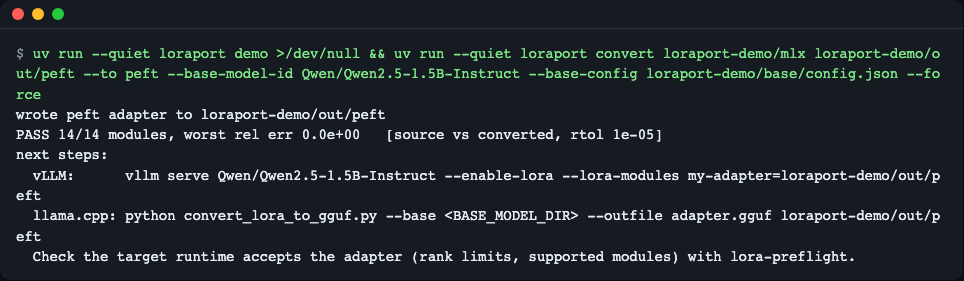
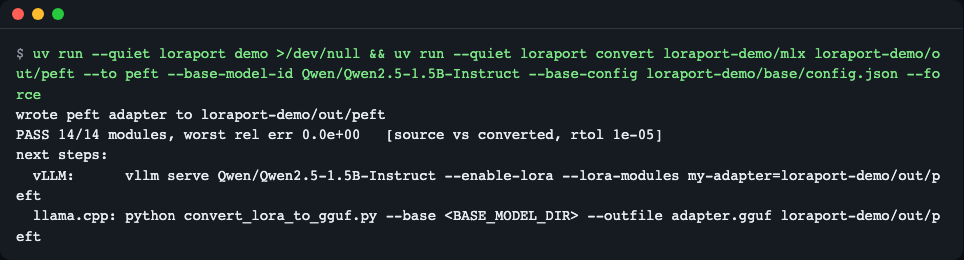
fix(convert): drop unpublished tool from peft next steps
The peft next-steps output pointed at a tool that is not published yet.
Remove that line, align both READMEs and the example image with the real
output, and update the regression test.

diff --git a/src/loraport/convert.py b/src/loraport/convert.py
@@ -65,7 +65,6 @@ def _next_steps(to: Target, dst: Path, base: str | None, num_layers_unknown: boo
         return [
             f"vLLM:      vllm serve {base_ref} --enable-lora --lora-modules my-adapter={dst}",
             f"llama.cpp: python convert_lora_to_gguf.py --base <BASE_MODEL_DIR> --outfile adapter.gguf {dst}",
-            "Check the target runtime accepts the adapter (rank limits, supported modules) with lora-preflight.",
         ]
     steps = [f'mlx-lm:    mlx_lm.generate --model {base_ref} --adapter-path {dst} --prompt "Hello"']
     if num_layers_unknown:

diff --git a/tests/test_cli.py b/tests/test_cli.py
@@ -63,7 +63,7 @@ def test_convert_autoverify_and_next_steps(mlx_dir: Path, tmp_path: Path, capsys
     out = capsys.readouterr().out
     assert "PASS 14/14 modules" in out
     assert "--lora-modules" in out and "vllm serve org/model --enable-lora" in out
-    assert "convert_lora_to_gguf.py" in out and "lora-preflight" in out
+    assert "convert_lora_to_gguf.py" in out and "lora-preflight" not in out
 
 
 def test_convert_failure_exit_code(mlx_dir: Path, tmp_path: Path, capsys: pytest.CaptureFixture[str]) -> None:

diff --git a/src/loraport/__init__.py b/src/loraport/__init__.py
@@ -2,7 +2,7 @@
 
 from __future__ import annotations
 
-__version__ = "0.1.2"
+__version__ = "0.1.3"
 
 from .convert import ConvertResult, convert  # noqa: E402
 from .delta import Report, compare  # noqa: E402

diff --git a/README.md b/README.md
@@ -25,7 +25,7 @@ git clone https://github.com/LeeGyeongPil/loraport && cd loraport
 uv run loraport --version
 ```
 ```text
-loraport 0.1.2
+loraport 0.1.3
 ```
 - 필요한 것: Python 3.11 이상(`.python-version` 은 3.12). 의존성은 `numpy`·`safetensors` 뿐이라 torch·mlx 없이 맥·리눅스 어디서나 돕니다.
 - 최소 리눅스 환경에서는 `git`, `curl` 정도만 더 있으면 됩니다.
@@ -89,7 +89,6 @@ PASS 14/14 modules, worst rel err 0.0e+00   [source vs converted, rtol 1e-05]
 next steps:
   vLLM:      vllm serve Qwen/Qwen2.5-1.5B-Instruct --enable-lora --lora-modules my-adapter=loraport-demo/out/peft
   llama.cpp: python convert_lora_to_gguf.py --base <BASE_MODEL_DIR> --outfile adapter.gguf loraport-demo/out/peft
-  Check the target runtime accepts the adapter (rank limits, supported modules) with lora-preflight.
 ```
 ![convert 화면](docs/images/03-convert.png)
 *변환이 끝나면 자동 검증 결과와 vLLM·llama.cpp 다음 명령이 나온다.*
@@ -97,7 +96,6 @@ next steps:
 - 변환 결과는 `adapter_model.safetensors`(메타데이터 `format=pt`)와 `adapter_config.json` 입니다. 설정에는 필요한 필드만 쓰고 학습 인자(데이터 경로 등)는 복사하지 않습니다.
 - 반대 방향은 `--to mlx`. `--base-config` 가 있으면 `num_layers` 를 `전체 층 수 − 가장 앞 층 번호` 로 계산하고, 없으면 `-1`(모든 블록)로 씁니다.
 - `--base-model-id` 를 주지 않으면 `base_model_name_or_path` 는 `null` 입니다.
-- 마지막 줄의 `lora-preflight` 는 별도 도구이며 아직 공개 전입니다.
 - `llama.cpp` 줄의 `<BASE_MODEL_DIR>` 는 직접 채우는 자리표시입니다. llama.cpp·vLLM 명령 자체는 이 도구가 실행하지 않고 안내만 합니다.
 
 ### 3) 두 어댑터 비교하기(CI)
@@ -198,10 +196,10 @@ flowchart LR
 
 ## 언제 쓰나
 - 이럴 때: mlx-lm 어댑터를 병합하지 않고 그대로 PEFT 계열 도구에 넘기고 싶을 때, 변환 결과가 원본과 같은지 숫자로 남기고 싶을 때.
-- 이럴 땐 다른 도구: 기본 모델에 병합한 전체 모델이 필요하면 [mlx-lm `fuse`](https://github.com/ml-explore/mlx-lm/blob/main/mlx_lm/LORA.md), PEFT 어댑터를 GGUF LoRA 로 바꾸려면 [llama.cpp `convert_lora_to_gguf.py`](https://github.com/ggml-org/llama.cpp), 이미 PEFT 형식인 어댑터를 vLLM·llama.cpp 가 받아 줄지 미리 따지려면 lora-preflight.
+- 이럴 땐 다른 도구: 기본 모델에 병합한 전체 모델이 필요하면 [mlx-lm `fuse`](https://github.com/ml-explore/mlx-lm/blob/main/mlx_lm/LORA.md), PEFT 어댑터를 GGUF LoRA 로 바꾸려면 [llama.cpp `convert_lora_to_gguf.py`](https://github.com/ggml-org/llama.cpp).
 
 ## 지원 안 하는 것과 한계
-- 0.1.2 에서 거부하는 형태: DoRA, MoE(3차원 텐서), embedding LoRA, `modules_to_save`, `rank_pattern`/`alpha_pattern`, bias 어댑터. GGUF 직접 쓰기, 기본 모델 병합, 허브 다운로드(로컬 폴더만)도 범위 밖입니다.
+- 0.1.3 에서 거부하는 형태: DoRA, MoE(3차원 텐서), embedding LoRA, `modules_to_save`, `rank_pattern`/`alpha_pattern`, bias 어댑터. GGUF 직접 쓰기, 기본 모델 병합, 허브 다운로드(로컬 폴더만)도 범위 밖입니다.
 - **ΔW 동일성만 증명합니다.** 양자화한 기본 모델에 붙이면 출력은 조금 달라질 수 있습니다(출력 동일성은 보장하지 않음).
 - **mlx-lm 쪽은 실제 로드를 확인하지 못했습니다.** 형식은 mlx-lm 0.32.2 설치본 소스와 허브의 실제 mlx-lm 어댑터 헤더로 확인했고, 개발 환경(Metal 장치 없음)에서 `mlx_lm` 의 `load_adapters` 를 직접 돌려 보지는 못했습니다. `--to mlx` 의 `num_layers=-1`·파일에 없는 층이 ΔW=0 으로 남는다는 동작도 소스를 읽은 근거입니다. 맥의 일반 터미널에서는 `uv run --with mlx-lm pytest -m mlx` 로 왕복 테스트를 돌려 볼 수 있는데, 이 명령은 아직 실행해 보지 않았습니다.
 - 어댑터 전체를 float32 로 메모리에 올립니다(스트리밍 아님). 수백 MB 급까지는 가능합니다.

diff --git a/README.en.md b/README.en.md
@@ -23,7 +23,7 @@ git clone https://github.com/LeeGyeongPil/loraport && cd loraport
 uv run loraport --version
 ```
 ```text
-loraport 0.1.2
+loraport 0.1.3
 ```
 - Requires Python 3.11+ (`.python-version` pins 3.12). The only dependencies are `numpy` and `safetensors`, so it runs on macOS and Linux without torch or mlx.
 - On a minimal Linux image you only need `git` and `curl` in addition.
@@ -87,7 +87,6 @@ PASS 14/14 modules, worst rel err 0.0e+00   [source vs converted, rtol 1e-05]
 next steps:
   vLLM:      vllm serve Qwen/Qwen2.5-1.5B-Instruct --enable-lora --lora-modules my-adapter=loraport-demo/out/peft
   llama.cpp: python convert_lora_to_gguf.py --base <BASE_MODEL_DIR> --outfile adapter.gguf loraport-demo/out/peft
-  Check the target runtime accepts the adapter (rank limits, supported modules) with lora-preflight.
 ```
 ![convert screen](docs/images/03-convert.png)
 *After converting, the automatic verification result and the next vLLM / llama.cpp commands are shown.*
@@ -195,10 +194,10 @@ Format notes and sources: [docs/format-notes.md](docs/format-notes.md).
 
 ## When to use it
 - Good fit: you want to hand an mlx-lm adapter to PEFT-based tools without merging it, and keep a numeric record that the conversion matches the original.
-- Other tools: for a merged full model use [mlx-lm `fuse`](https://github.com/ml-explore/mlx-lm/blob/main/mlx_lm/LORA.md); to turn a PEFT adapter into a GGUF LoRA use [llama.cpp `convert_lora_to_gguf.py`](https://github.com/ggml-org/llama.cpp); to predict whether vLLM or llama.cpp will accept an adapter that is already in PEFT format, use lora-preflight (a separate tool, not published yet).
+- Other tools: for a merged full model use [mlx-lm `fuse`](https://github.com/ml-explore/mlx-lm/blob/main/mlx_lm/LORA.md); to turn a PEFT adapter into a GGUF LoRA use [llama.cpp `convert_lora_to_gguf.py`](https://github.com/ggml-org/llama.cpp).
 
 ## Unsupported and limits
-- Refused in 0.1.2: DoRA, MoE (3-D tensors), embedding LoRA, `modules_to_save`, `rank_pattern`/`alpha_pattern`, bias adapters. Writing GGUF directly, merging into the base model and downloading from the hub (local folders only) are out of scope.
+- Refused in 0.1.3: DoRA, MoE (3-D tensors), embedding LoRA, `modules_to_save`, `rank_pattern`/`alpha_pattern`, bias adapters. Writing GGUF directly, merging into the base model and downloading from the hub (local folders only) are out of scope.
 - **Only dW equality is proven.** Attached to a quantized base model, outputs may differ slightly (output equality is not guaranteed).
 - **Loading in mlx-lm itself was not verified.** The format was checked against the installed mlx-lm 0.32.2 source and the header of a real mlx-lm adapter on the hub, but `load_adapters` from `mlx_lm` could not be run in the development environment (no Metal device). The behavior of `num_layers=-1` and of layers missing from the file staying at dW = 0 for `--to mlx` also rests on reading the source. On a normal Mac terminal you can run the round-trip test with `uv run --with mlx-lm pytest -m mlx`; that command has not been run yet.
 - The whole adapter is loaded into memory as float32 (no streaming). Adapters up to a few hundred MB are fine.

diff --git a/CHANGELOG.md b/CHANGELOG.md
@@ -5,6 +5,11 @@ The format follows [Keep a Changelog](https://keepachangelog.com/en/1.1.0/) and 
 
 ## [Unreleased]
 
+## [0.1.3] - 2026-11-13
+
+### Fixed
+- `convert --to peft` no longer suggests an unpublished tool in its next steps; README example output now matches the real output.
+
 ## [0.1.2] - 2026-11-13
 
 ### Fixed
